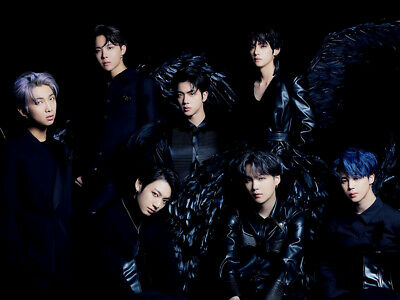
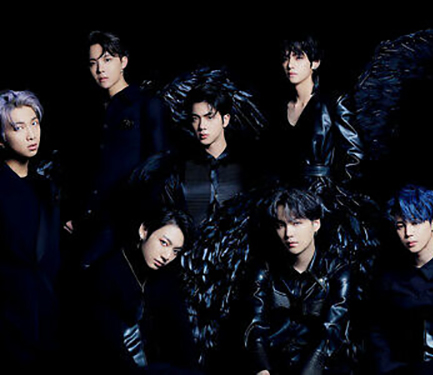
Resize images

diff --git a/hgh_quiz.html b/hgh_quiz.html
@@ -1131,7 +1131,7 @@
 								<input type="radio" name="q7" value = "Ana"/>
 								<div class = "card box-shadow">
 									<div class = "crop">
-										<img src = "images/HGH/q7/Abba.png" class = "hvr-grow answer_image">
+										<img src = "images/HGH/q7/Abba.jpg" class = "hvr-grow answer_image">
 									</div>
 									<div class = "card-body">
 										<p class = "card-text">ABBA - Dancing Queen</p>

diff --git a/assets/css/main.css b/assets/css/main.css
@@ -1879,8 +1879,8 @@ ul{
 .answer_image {
 	position: relative;
 	max-height: 200px;
+	max-width: 200px;
 	object-fit: contain;
-	width: 50%;
 }
 
 
